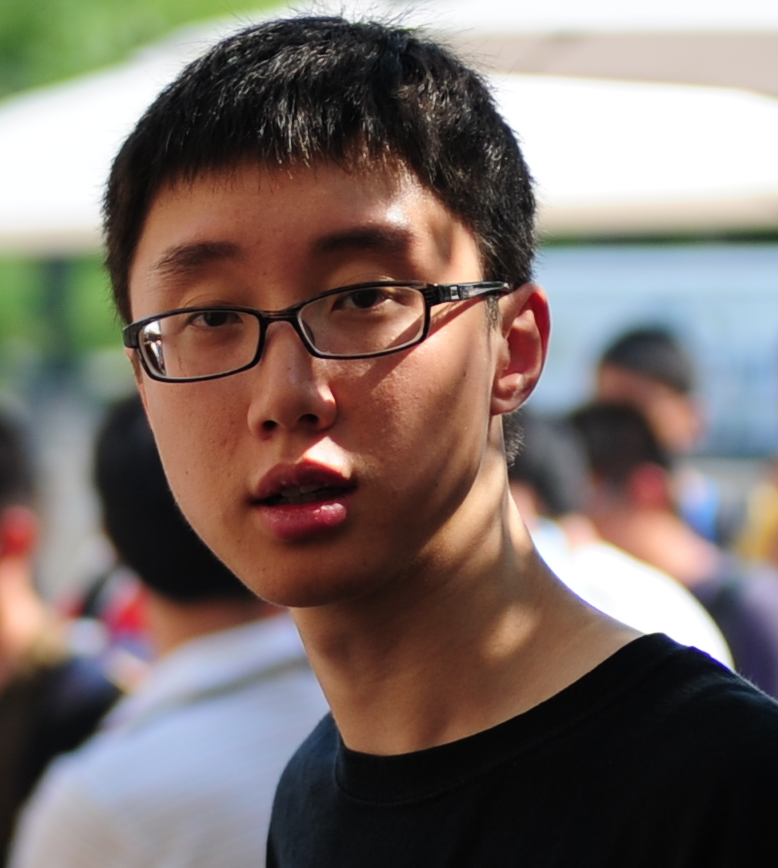
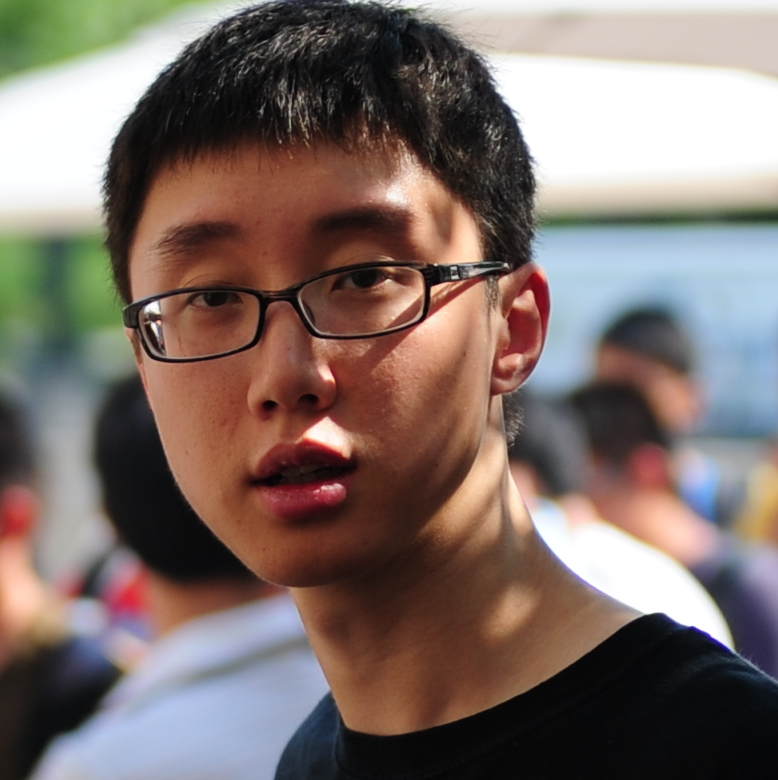
update

diff --git a/index.html b/index.html
@@ -2,7 +2,7 @@
 <!-- saved from url=(0056)https://gkioxari.github.io/Tutorials/eccv2018/index.html -->
 <html xmlns="http://www.w3.org/1999/xhtml"><head><meta http-equiv="Content-Type" content="text/html; charset=UTF-8">
 
-<title>Tutorial</title>
+<title>Sense Human</title>
 
   <link rel="stylesheet" href="./ICCV_2019_Workshop/bootstrap.min.css">
   <link href="./ICCV_2019_Workshop/css" rel="stylesheet" type="text/css">
@@ -15,7 +15,7 @@
   <table border="0" align="center">
     <tbody><tr>
       <td width="623" align="center" valign="middle"><h3>ICCV 2019 Tutorial on</h3>
-          <span class="title" style='font-size: 21pt;'>Sensing, Understanding and Synthesizing Humans</span></td>
+          <span class="title" style='font-size: 20pt;'>Sensing, Understanding and Synthesizing Humans</span></td>
     </tr>
     <tr>
         <td colspan="3" align="center"><h3>TBD( <a href="https://www.google.com/maps/place/COEX+Convention+Center+Grand+Ball+Room/@37.5130556,127.0564171,17z/data=!4m12!1m6!3m5!1s0x357ca46bcb9e129f:0xd6bf8dde518b69a4!2sCOEX+Convention+Center+Grand+Ball+Room!8m2!3d37.5130556!4d127.0586111!3m4!1s0x357ca46bcb9e129f:0xd6bf8dde518b69a4!8m2!3d37.5130556!4d127.0586111">google maps</a>)<br>Seoul, Korea<br>Oct 28th, 2019</h3></td>
@@ -30,13 +30,14 @@
   <h2>Organizers</h2>
     <div>
       
-      <div class="instructor">
+       <div class="instructor">
         <a href="https://liuziwei7.github.io/" onmouseover="document.getElementById(&#39;ross&#39;).src=&#39;../figures/goat.jpg&#39;;" onmouseout="document.getElementById(&#39;ross&#39;).src=&#39;https://liuziwei7.github.io/homepage_files/me.jpg&#39;;">
         <div class="instructorphoto"><img src="./ICCV_2019_Workshop/ziwei-liu.jpg" id="ziwei-liu"></div>
         <div>Ziwei Liu<br>NTU/CUHK</div>
         </a>
       </div>
-      
+
+       
       <div class="instructor">
         <a href="https://people.eecs.berkeley.edu/~tinghuiz/" onmouseover="document.getElementById(&#39;he&#39;).src=&#39;https://s-media-cache-ak0.pinimg.com/736x/78/b4/f8/78b4f865a46a2a4cdce4a621da87d538.jpg&#39;;" onmouseout="document.getElementById(&#39;he&#39;).src=&#39;https://people.eecs.berkeley.edu/~tinghuiz/images/mypic.png&#39;;">
         <div class="instructorphoto"><img src="./ICCV_2019_Workshop/tinghui-zhou.png" id="tinghui-zhou"></div>
@@ -64,18 +65,22 @@
         <div>Wanli Ouyang<br>USYD</div>
         </a>
       </div>
-      
+
       <div class="instructor">
         <a href="http://mmlab.siat.ac.cn/yuqiao/" onmouseover="document.getElementById(&#39;georgia&#39;).src=&#39;https://gkioxari.github.io/teasers/me_in_mexico.jpg&#39;;" onmouseout="document.getElementById(&#39;georgia&#39;).src=&#39;http://mmlab.siat.ac.cn/yuqiao/QY_large.jpg&#39;;">
         <div class="instructorphoto"><img src="./ICCV_2019_Workshop/yu-qiao.jpg" id="yu-qiao"></div>
         <div>Yu Qiao<br>SIAT</div>
         </a>
       </div>
+    </div>
+    <p></p> 
+</div>   
+
 <br>
 
 <div class="container">
   <h2>Overview</h2>
-  <p><font size="+0">
+  <p>
     Great progress has been achieved in human sensing, understanding and synthesis. We further identify three key issues of the future directions:
     <ol>
         <li> We should take a holistic view on the integral pipeline of these topics and explore the frontier problems emerged from their intersections. </li>
@@ -83,15 +88,7 @@
         <li> These topics lay the foundation for human-centric AI and will play a greater role in the age of intelligent well-being. </li>
     </ol>
     We hope this workshop can foster the inter-disciplinary research in these fields.
-      </font></p>
-</div>
-
-<br>
-
-<div class="container">
-  <h2>Schedule</h2>
-    <div class="schedule">
-    TBD
+      </p>
 </div>
 
 <br>
@@ -99,6 +96,5 @@
 <div class="container">
   <p>Contact: <a href="mailto:zwliu.hust@gmail.com">Ziwei Liu</a></p>
 </div>
- 
 
 </body></html>

diff --git a/ICCV_2019_Workshop/resize.py b/ICCV_2019_Workshop/resize.py
@@ -1,4 +1,4 @@
 import cv2
-img = cv2.imread('angjoo-kanazawa.png')
-new_img = img[100:1100, 250:1250, :]
-cv2.imwrite('new.jpg', new_img)
+img = cv2.imread('tinghui-zhou.png')
+new_img = img[20:800, :, :]
+cv2.imwrite('new.png', new_img)
